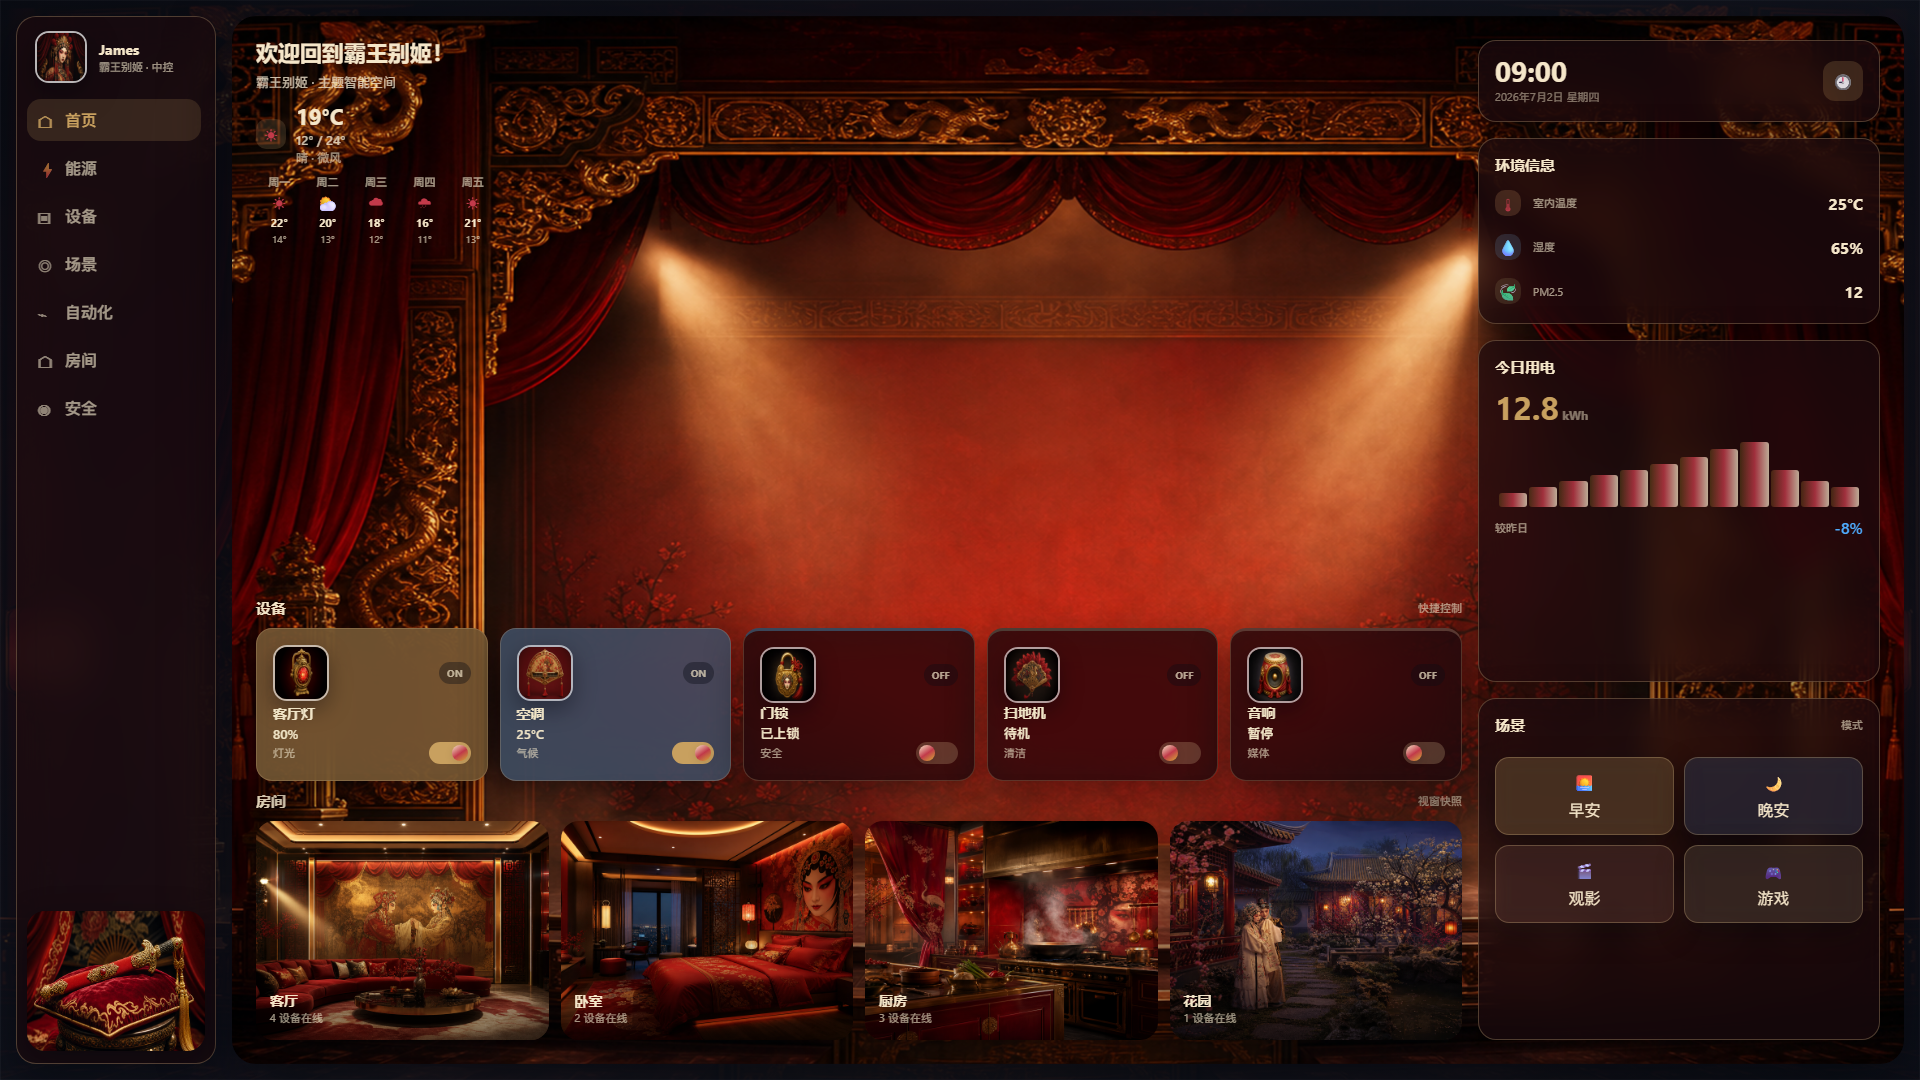
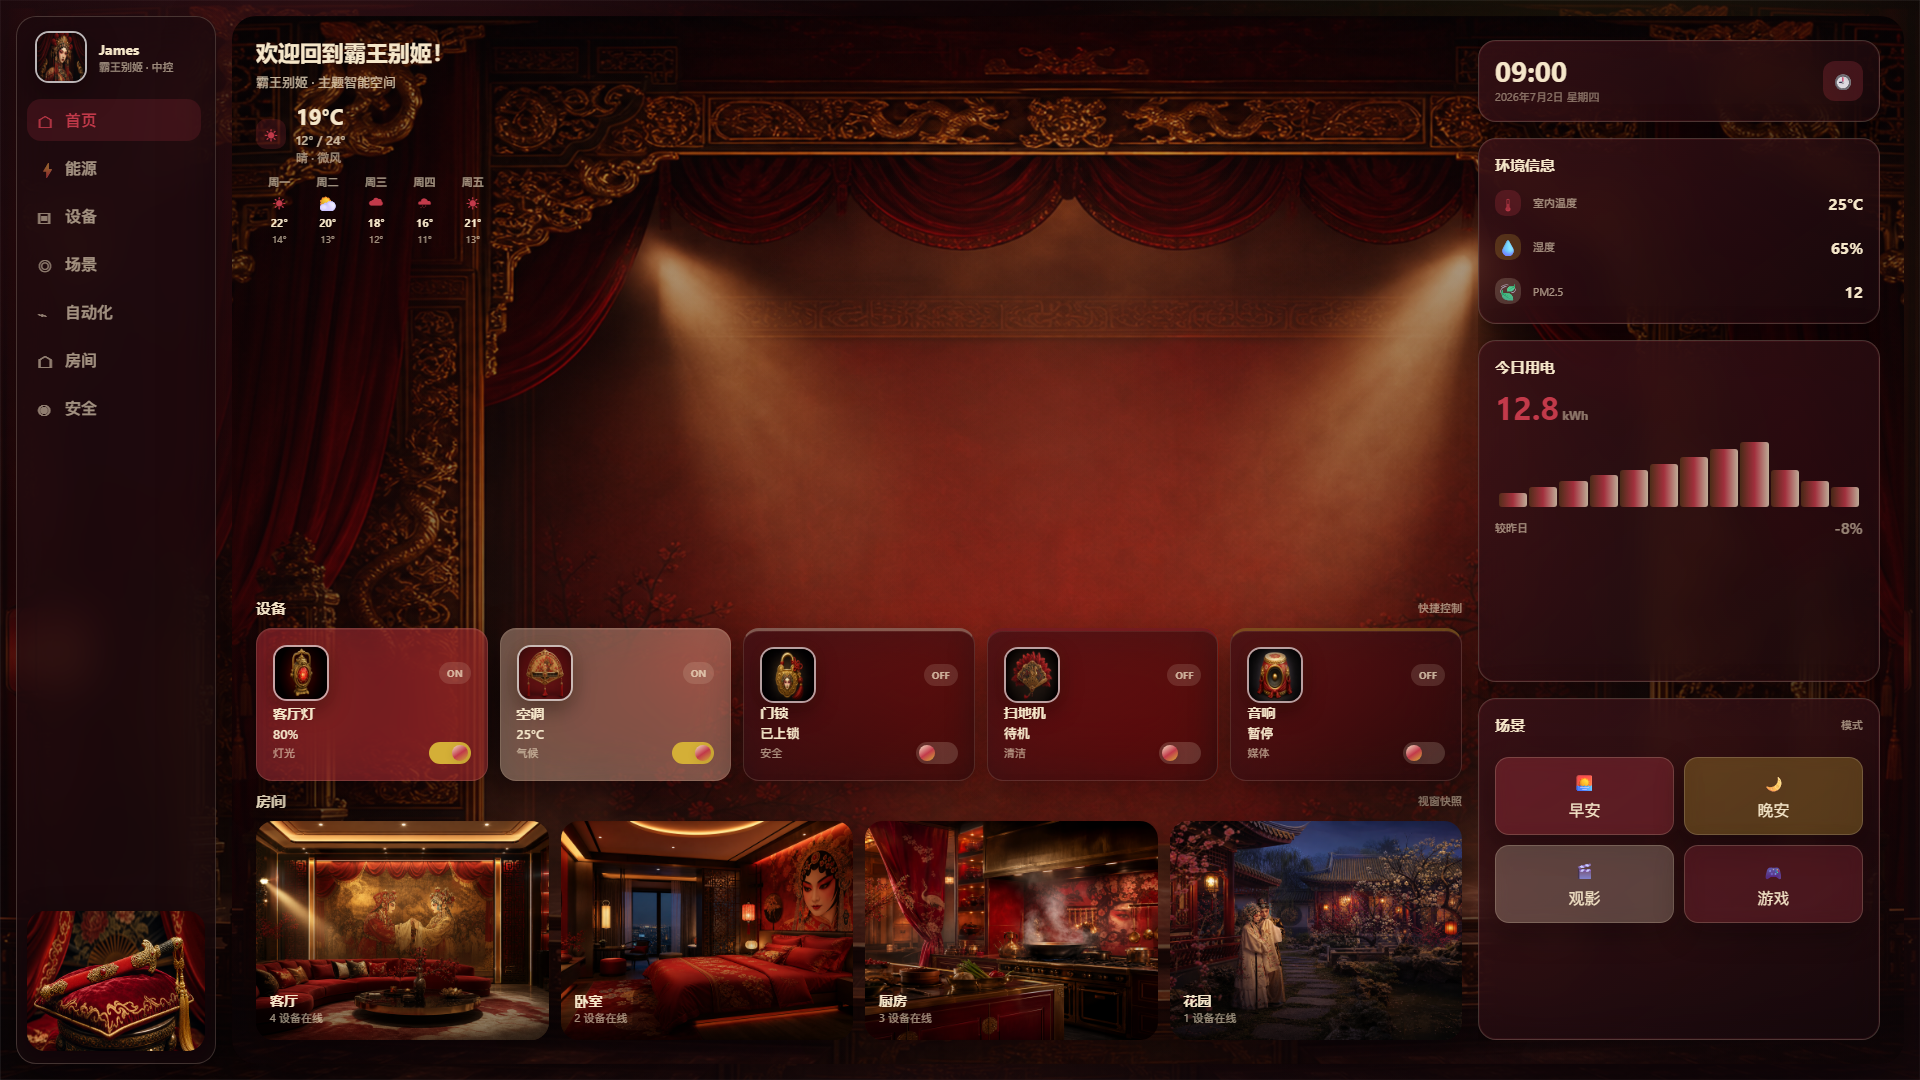
fix(skins): align farewell-my-concubine card colors with opera theme
Remap device, scene, and panel tokens to crimson/gold/cream palette so dashboard cards match the Farewell My Concubine aesthetic.

diff --git a/skins-pro/farewell-my-concubine/theme.css b/skins-pro/farewell-my-concubine/theme.css
@@ -1,31 +1,54 @@
 :host { --sp-glass-regular:rgba(255,255,255,0.28);
   --sp-text-primary: #F5E6C9;
+  --sp-device-yellow:rgba(194, 58, 74, 0.42);
+  --sp-device-green:rgba(212, 175, 55, 0.40);
+  --sp-device-blue:rgba(245, 230, 201, 0.34);
+  --sp-device-purple:rgba(194, 58, 74, 0.30);
+  --sp-device-red:rgba(212, 175, 55, 0.36);
+  --sp-device-brown:rgba(26, 10, 14, 0.58);
+  --sp-device-bg:rgba(26, 10, 14, 0.58);
+  --sp-scene-morning:rgba(194, 58, 74, 0.30);
+  --sp-scene-night:rgba(212, 175, 55, 0.28);
+  --sp-scene-movie:rgba(245, 230, 201, 0.24);
+  --sp-scene-game:rgba(194, 58, 74, 0.24);
+  --sp-item-icon-bg:rgba(26, 10, 14, 0.76);
+  --sp-time-icon-bg:rgba(194, 58, 74, 0.24);
+  --sp-env-temp-bg:rgba(194, 58, 74, 0.24);
+  --sp-env-hum-bg:rgba(212, 175, 55, 0.22);
+  --sp-env-pm-bg:rgba(245, 230, 201, 0.18);
+  --sp-switch-bg:rgba(245, 230, 201, 0.18);
+  --sp-maintenance-divider:rgba(245, 230, 201, 0.12);
+  --sp-camera-bg:rgba(26, 10, 14, 0.86);
   display:block; width:100%;
   --sp-sidebar-width:200px; --sp-app-padding:16px; --sp-stage-radius:24px;
   --sp-runtime-height:560px; --sp-runtime-min-height:560px;
   --sp-glass-bg: rgba(26, 10, 14, 0.72); --sp-panel-bg: rgba(26, 10, 14, 0.82);
+  --sp-card-bg: linear-gradient(145deg, rgba(58, 18, 24, 0.78), rgba(26, 10, 14, 0.62));
   --sp-base-texture: url("./background.png"); --sp-stage-texture: url("./background.png");
-  --sp-app-overlay:linear-gradient(135deg,rgba(12,15,24,.78),rgba(20,24,36,.76),rgba(15,19,30,.78));
-  --sp-stage-overlay:none;
-  --sp-room-overlay:linear-gradient(180deg,transparent 40%,rgba(0,0,0,.45));
+  --sp-app-overlay: radial-gradient(circle at 18% 12%, rgba(194, 58, 74, 0.20), transparent 28%), radial-gradient(circle at 82% 18%, rgba(212, 175, 55, 0.12), transparent 30%), radial-gradient(circle at 50% 92%, rgba(92, 40, 48, 0.18), transparent 34%), linear-gradient(135deg, rgba(26, 10, 14, 0.72), rgba(12, 6, 8, 0.48) 48%, rgba(26, 10, 14, 0.74));
+  --sp-stage-overlay: linear-gradient(90deg, rgba(12, 4, 6, 0.42), rgba(26, 10, 14, 0.14) 38%, rgba(26, 10, 14, 0.16) 62%, rgba(12, 4, 6, 0.44)), radial-gradient(circle at 50% 42%, rgba(245, 230, 201, 0.06), transparent 36%), linear-gradient(180deg, rgba(26, 10, 14, 0.08), rgba(26, 10, 14, 0.38));
+  --sp-room-overlay:linear-gradient(180deg,transparent 40%,rgba(0,0,0,.48));
   --sp-bar-gradient: linear-gradient(90deg, rgba(212, 175, 55, 0.22), rgba(194, 58, 74, 0.92), rgba(245, 230, 201, 0.86));
-  --sp-text-main: #F5E6C9; --sp-text-muted:rgba(232,221,194,.68); --sp-text-muted-dim:rgba(232,221,194,.52);
-  --sp-text-muted-bright:rgba(241,231,207,.82); --sp-text-alt: #C23A4A; --sp-text-dark:#f1e5c7;
-  --sp-text-dark-dim:rgba(241,229,199,.72); --sp-text-dark-alpha:rgba(10,12,20,.38);
-  --sp-text-dropdown:#1a1a2e; --sp-text-down:#4facfe;
-  --sp-accent-green:#c8a05f; --sp-accent-blue:#6c7f9e; --sp-accent-purple:#7c6a56;
-  --sp-accent-red:#8f5f4e; --sp-accent-brown:#8b7553;
-  --sp-accent-green-alpha:rgba(200,160,95,.18); --sp-accent-green-active:rgba(200,160,95,.26);
-  --sp-accent-green-border:rgba(200,160,95,.42);
-  --sp-border-width:1px; --sp-border-light:rgba(255,255,255,.55);
-  --sp-border-muted:rgba(213,188,142,.20); --sp-border-strong:rgba(234,213,172,.42);
-  --sp-border-glass:rgba(214,186,137,.30); --sp-border-weather:rgba(214,186,137,.26);
-  --sp-border-device:rgba(216,188,142,.24); --sp-border-empty:rgba(216,188,142,.24);
-  --sp-border-chip:rgba(216,188,142,.22);
-  --sp-shadow-sm:0 10px 32px rgba(3,5,10,.42); --sp-shadow-md:0 14px 42px rgba(3,5,10,.48);
-  --sp-shadow-lg:0 24px 64px rgba(2,4,8,.52); --sp-shadow-xl:0 18px 54px rgba(2,4,8,.50);
-  --sp-shadow-card:0 14px 38px rgba(2,4,8,.44); --sp-shadow-glass:0 12px 42px rgba(2,4,8,.46);
-  --sp-shadow-scene:0 10px 28px rgba(2,4,8,.40); --sp-shadow-device:0 8px 22px rgba(2,4,8,.36);
+  --sp-text-main: #F5E6C9; --sp-text-muted:rgba(245, 230, 201, 0.62); --sp-text-muted-dim:rgba(245, 230, 201, 0.48);
+  --sp-text-muted-bright:rgba(245, 230, 201, 0.78); --sp-text-alt: #C23A4A; --sp-text-dark:#F5E6C9;
+  --sp-text-dark-dim:rgba(245, 230, 201, 0.72); --sp-text-dark-alpha:rgba(245, 230, 201, 0.14);
+  --sp-text-dropdown:#1a0a0e; --sp-text-down:rgba(245, 230, 201, 0.56);
+  --sp-accent: #C23A4A; --sp-accent-alpha:rgba(194, 58, 74, 0.18); --sp-accent-active:rgba(194, 58, 74, 0.26); --sp-accent-border:rgba(194, 58, 74, 0.42);
+  --sp-accent-green:#D4AF37; --sp-accent-blue:#C23A4A; --sp-accent-purple:#B8162E;
+  --sp-accent-red:#8B2E2E; --sp-accent-brown:#5C4030;
+  --sp-accent-green-alpha:rgba(212, 175, 55, 0.18); --sp-accent-green-active:rgba(212, 175, 55, 0.26);
+  --sp-accent-green-border:rgba(212, 175, 55, 0.42);
+  --sp-border-width:1px; --sp-border-light:rgba(245, 230, 201, 0.55);
+  --sp-border-muted:rgba(245, 230, 201, 0.16); --sp-border-strong:rgba(245, 230, 201, 0.36);
+  --sp-border-glass:rgba(245, 230, 201, 0.20); --sp-border-weather:rgba(194, 58, 74, 0.22);
+  --sp-border-device:rgba(245, 230, 201, 0.14); --sp-border-empty:rgba(245, 230, 201, 0.12);
+  --sp-border-chip:rgba(212, 175, 55, 0.24);
+  --sp-shadow-sm:0 10px 32px rgba(8, 2, 4, 0.42); --sp-shadow-md:0 14px 42px rgba(8, 2, 4, 0.48);
+  --sp-shadow-lg:0 24px 64px rgba(6, 2, 4, 0.52); --sp-shadow-xl:0 18px 54px rgba(6, 2, 4, 0.50);
+  --sp-shadow-card:0 14px 38px rgba(6, 2, 4, 0.44), inset 0 1px 0 rgba(245, 230, 201, 0.08);
+  --sp-shadow-glass:0 12px 42px rgba(6, 2, 4, 0.46), 0 0 0 1px rgba(194, 58, 74, 0.10) inset;
+  --sp-shadow-scene:0 10px 28px rgba(6, 2, 4, 0.40), 0 0 18px rgba(194, 58, 74, 0.08);
+  --sp-shadow-device:0 8px 22px rgba(6, 2, 4, 0.36), 0 0 14px rgba(212, 175, 55, 0.06);
   --sp-shadow-switch:0 2px 8px rgba(0,0,0,.10);
   --sp-radius-pill:999px; --sp-radius-xl:20px; --sp-radius-lg:18px; --sp-radius-md:14px;
   --sp-radius-sm:10px; --sp-radius-xs:8px; --sp-radius-weather:10px;
@@ -38,24 +61,18 @@
   --sp-font-4xs:10px;
   --sp-space-xl:24px; --sp-space-lg:16px; --sp-space-md:12px; --sp-space-sm:10px;
   --sp-space-xs:8px; --sp-space-2xs:6px; --sp-space-3xs:4px;
-  --sp-device-yellow:rgba(112,88,52,.90); --sp-device-green:rgba(72,90,70,.88);
-  --sp-device-blue:rgba(60,78,100,.88); --sp-device-purple:rgba(80,66,58,.88);
-  --sp-device-red:rgba(96,64,56,.88); --sp-device-brown:rgba(86,74,58,.88);
-  --sp-device-unavailable:rgba(43,48,62,.86);
-  --sp-scene-morning:rgba(122,93,56,.44); --sp-scene-night:rgba(54,64,84,.44);
-  --sp-scene-movie:rgba(92,56,48,.44); --sp-scene-game:rgba(84,70,58,.44);
-  --sp-env-temp-bg:rgba(160,112,76,.28); --sp-env-temp: #C23A4A;
-  --sp-env-hum-bg:rgba(82,106,132,.30); --sp-env-hum:#9db2d0;
-  --sp-env-pm-bg:rgba(120,96,68,.28); --sp-env-pm:#ceb07c;
+  --sp-device-unavailable:rgba(80, 70, 72, 0.86);
+  --sp-env-temp: #C23A4A;
+  --sp-env-hum:#D4AF37;
+  --sp-env-pm:#F5E6C9;
   --sp-warning:#e8a040; --sp-error:#d87868;
-  --sp-switch-knob: linear-gradient(145deg, #F5E6C9, #C23A4A 52%, #D4AF37); --sp-switch-bg:rgba(236,210,160,.22);
+  --sp-switch-knob: linear-gradient(145deg, #F5E6C9, #C23A4A 52%, #D4AF37); --sp-switch-bg:rgba(245, 230, 201, 0.18);
   --sp-bar-min:12px;
-  --sp-dark-overlay:rgba(5,8,14,.70); --sp-glass-light:rgba(48,56,74,.46);
-  --sp-glass-dim:rgba(40,48,66,.44); --sp-glass-chip:rgba(52,62,84,.38);
-  --sp-camera-bg:rgba(8,12,20,.56); --sp-scrollbar-track:rgba(20,24,34,.48);
-  --sp-scrollbar-thumb:rgba(188,157,108,.34); --sp-item-icon-bg:rgba(28,34,48,.80);
-  --sp-time-icon-bg:rgba(199,160,94,.20); --sp-maintenance-divider:rgba(198,165,114,.18);
-  --sp-weather-bg:rgba(198,165,114,.18);
+  --sp-dark-overlay:rgba(8, 2, 4, 0.70); --sp-glass-light:rgba(58, 22, 28, 0.44);
+  --sp-glass-dim:rgba(42, 16, 20, 0.46); --sp-glass-chip:rgba(72, 28, 34, 0.36);
+  --sp-scrollbar-track:rgba(26, 10, 14, 0.48);
+  --sp-scrollbar-thumb:rgba(212, 175, 55, 0.34);
+  --sp-weather-bg:rgba(194, 58, 74, 0.18);
 }
 ha-card { overflow:hidden; border:0; background:transparent; box-shadow:none; }
 .loading-state { padding:var(--sp-space-lg); color:var(--sp-text-main); }
@@ -72,7 +89,7 @@ button { font:inherit; }
 .profile-img { width:52px; height:52px; border-radius:var(--sp-radius-icon); border:2px solid rgba(255,255,255,.70); box-shadow:var(--sp-shadow-sm); }
 .menu { display:grid; gap:var(--sp-space-2xs); min-height:0; overflow:auto; padding-right:var(--sp-space-3xs); }
 .nav-button { min-height:42px; border:0; border-radius:var(--sp-radius-sidebar); padding:0 var(--sp-space-sm); display:flex; align-items:center; gap:var(--sp-space-sm); color:var(--sp-text-muted); background:transparent; cursor:pointer; text-align:left; transition:all .2s ease; font-weight:600; }
-.nav-button.active,.nav-button:hover { color:var(--sp-accent-green); background:var(--sp-accent-green-alpha); }
+.nav-button.active,.nav-button:hover { color:var(--sp-accent); background:var(--sp-accent-alpha); }
 .nav-button ha-icon { width:20px; color:inherit; }
 .sidebar-art { margin-top:auto; min-height:100px; flex-shrink:0; border-radius:var(--sp-radius-lg); overflow:hidden; box-shadow:var(--sp-shadow-sm); }
 .sidebar-art img { width:100%; height:100%; }
@@ -102,7 +119,7 @@ button { font:inherit; }
 .section-title { display:flex; justify-content:space-between; align-items:center; margin-bottom:var(--sp-space-sm); }
 .devices { display:grid; grid-template-columns:repeat(5,minmax(0,1fr)); gap:var(--sp-space-md); }
 .security-grid { grid-template-columns:repeat(3,minmax(0,1fr)); gap:var(--sp-space-sm); }
-.device { min-height:148px; border:0; border-radius:var(--sp-radius-device); padding:var(--sp-space-lg); background:var(--sp-panel-bg); color:var(--sp-text-dark); box-shadow:var(--sp-shadow-card); display:grid; grid-template-rows:auto 1fr auto; cursor:pointer; text-align:left; border:var(--sp-border-width) solid var(--sp-border-device); }
+.device { min-height:148px; border:0; border-radius:var(--sp-radius-device); padding:var(--sp-space-lg); background:var(--sp-card-bg, var(--sp-panel-bg)); color:var(--sp-text-dark); box-shadow:var(--sp-shadow-card); display:grid; grid-template-rows:auto 1fr auto; cursor:pointer; text-align:left; border:var(--sp-border-width) solid var(--sp-border-device); }
 .camera-card { border:0; border-radius:var(--sp-radius-lg); overflow:hidden; background:var(--sp-panel-bg); color:var(--sp-text-dark); cursor:pointer; text-align:left; box-shadow:var(--sp-shadow-card); width:100%; }
 .camera-preview { aspect-ratio:16/10; background:var(--sp-camera-bg); }
 .camera-preview img { width:100%; height:100%; object-fit:cover; display:block; }
@@ -134,7 +151,7 @@ button { font:inherit; }
 .room::after { content:""; position:absolute; inset:0; background:var(--sp-room-overlay); }
 .room-label { position:absolute; z-index:1; left:14px; right:14px; bottom:14px; text-align:left; }
 .side { grid-area:side; min-height:0; height:100%; display:grid; grid-template-rows:max-content max-content minmax(0,1fr) minmax(0,1fr); gap:var(--sp-space-lg); align-content:stretch; overflow:hidden; }
-.glass-card,.time-card { border-radius:var(--sp-radius-glass); padding:var(--sp-space-lg); box-sizing:border-box; background:var(--sp-glass-bg); backdrop-filter:blur(16px); -webkit-backdrop-filter:blur(16px); border:var(--sp-border-width) solid var(--sp-border-glass); box-shadow:var(--sp-shadow-glass); color:var(--sp-text-main); }
+.glass-card,.time-card { border-radius:var(--sp-radius-glass); padding:var(--sp-space-lg); box-sizing:border-box; background:var(--sp-card-bg, var(--sp-glass-bg)); backdrop-filter:blur(16px); -webkit-backdrop-filter:blur(16px); border:var(--sp-border-width) solid var(--sp-border-glass); box-shadow:var(--sp-shadow-glass); color:var(--sp-text-main); }
 .side > section { min-height:0; }
 .panel-energy { width:100%; max-width:100%; min-width:0; justify-self:stretch; align-self:stretch; min-height:0; height:100%; overflow:hidden; display:flex; flex-direction:column; }
 .panel-scenes { min-height:0; height:100%; overflow:hidden; display:flex; flex-direction:column; }
@@ -150,7 +167,7 @@ button { font:inherit; }
 .dot.hum { background:var(--sp-env-hum-bg); color:var(--sp-env-hum); }
 .dot.pm { background:var(--sp-env-pm-bg); color:var(--sp-env-pm); }
 .env-value { min-width:0; max-width:100%; font-weight:700; text-align:right; overflow-wrap:anywhere; word-break:break-word; }
-.energy-value { font-size:var(--sp-font-xxl); line-height:1; font-weight:700; margin-top:var(--sp-space-3xs); color:var(--sp-accent-green); }
+.energy-value { font-size:var(--sp-font-xxl); line-height:1; font-weight:700; margin-top:var(--sp-space-3xs); color:var(--sp-accent); }
 .energy-value small { font-size:var(--sp-font-2xs); color:var(--sp-text-muted-dim); }
 .bars { height:72px; display:flex; align-items:end; gap:2px; margin-top:12px; padding:0 var(--sp-space-3xs); }
 .compact-energy-bars { height:48px; margin-top:var(--sp-space-sm); }